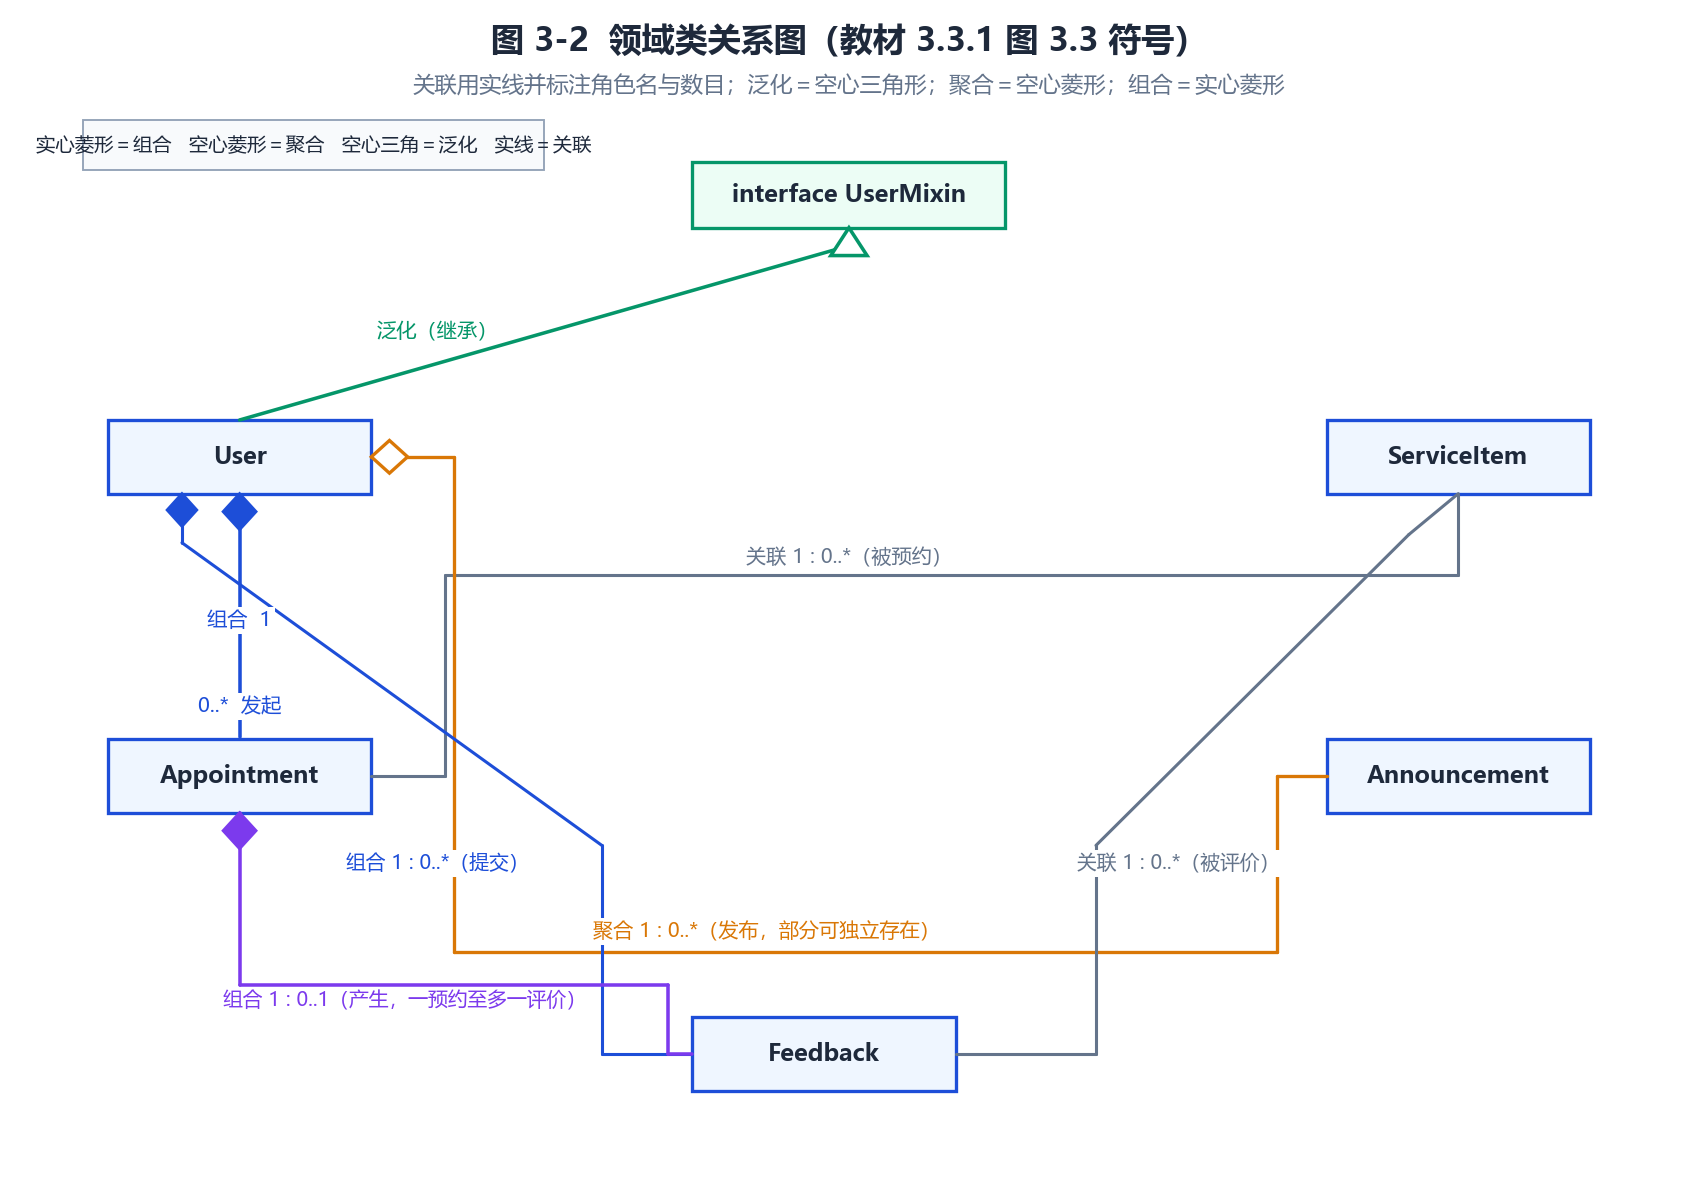
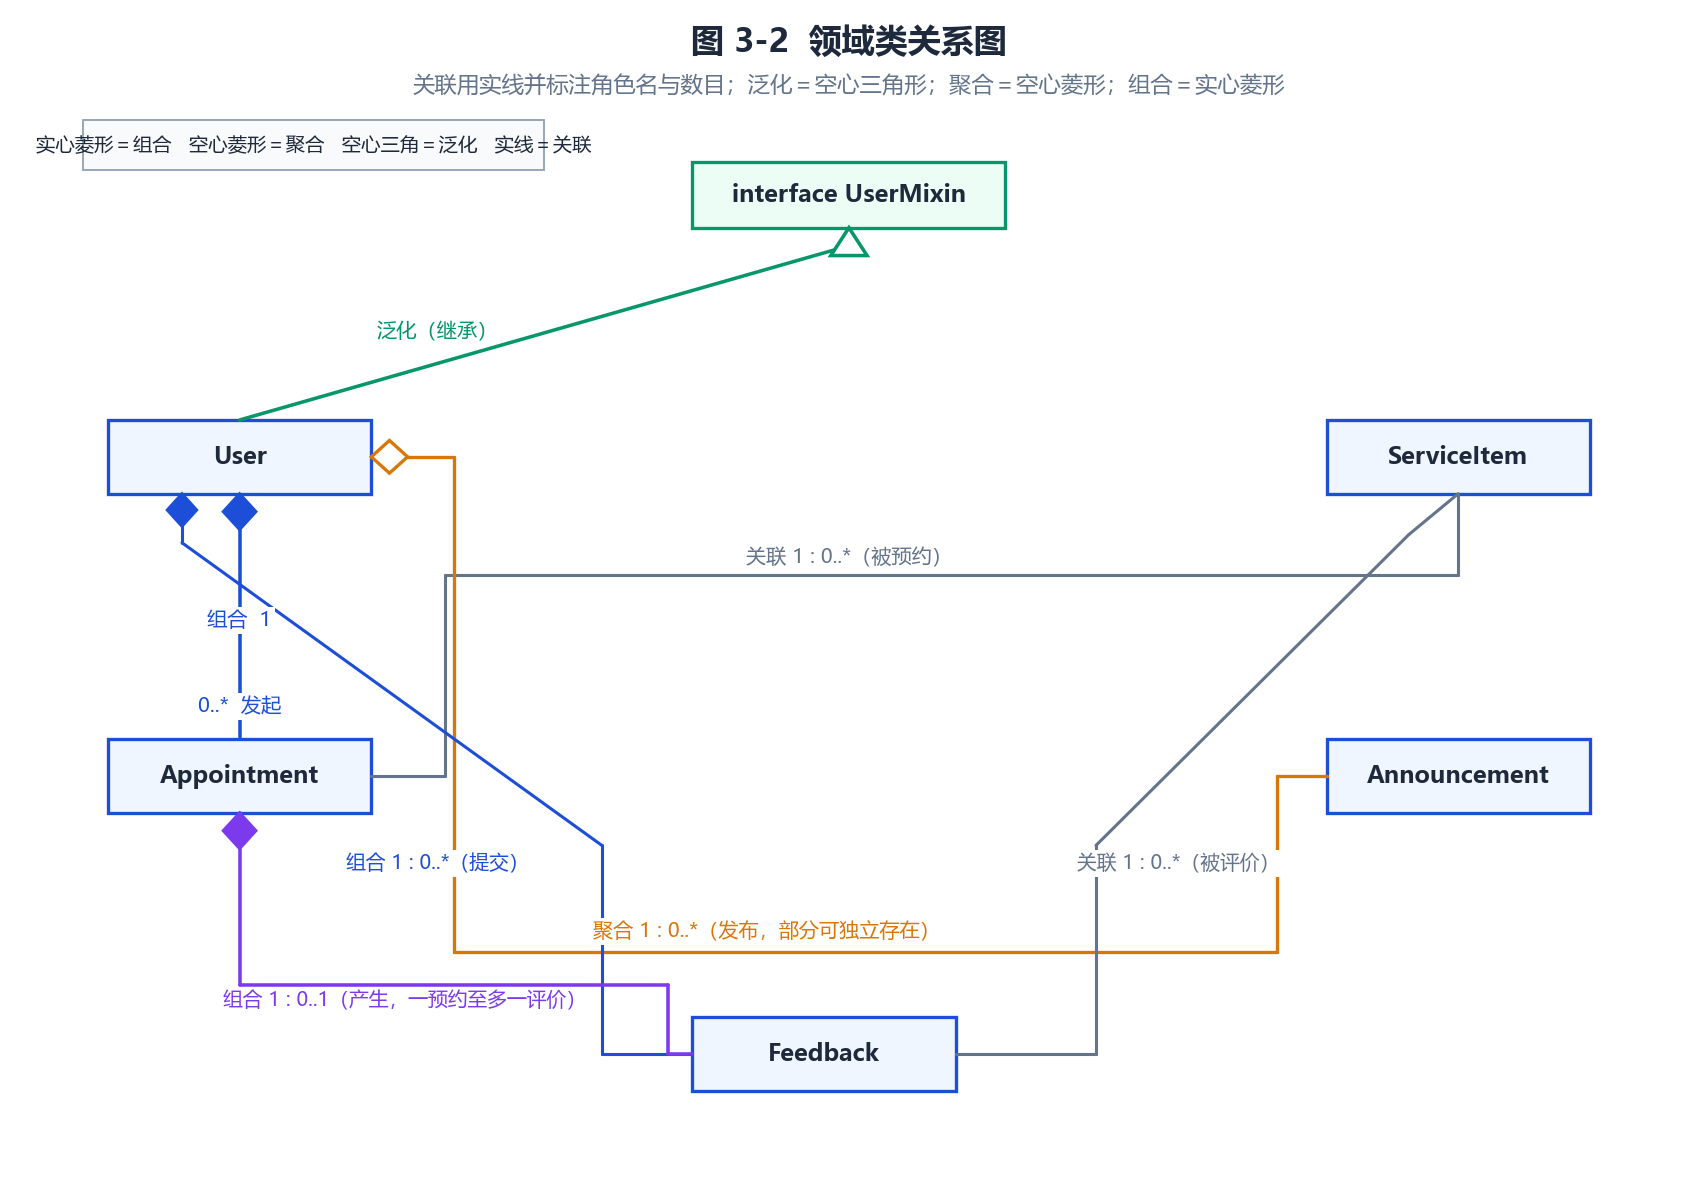
docs(diagrams): 图面与图注去掉教材章节/页码标注
- 用户要求图中不标注教材哪一页哪一章；PNG 标题/副标题/图内说明与 Word 图注统一清理
- 图注只保留「图 X-Y + 图名」；报告正文/小节标题/表格里的教材依据保留，作为与课本一致的论证
- 重绘 10 张 PNG 并重新生成 10 份 Word 报告（Word 内嵌图片副本，需两步重跑）
- 二进制精确替换 30 处，脚本语法/图面视觉/图注文本均已校验；docs/11 补第 23 条提交记录
- 全量验证不变：382 passed、94.7%/85.7%、静态 0 问题、插装 100%、变异 100%、真实库未动

Changed region(s): [[0.2811, 0.0, 0.6871, 0.0622]]

diff --git a/scripts/draw_diagrams.py b/scripts/draw_diagrams.py
@@ -2,7 +2,7 @@
 """按《基于案例的软件构造教程》与《软件质量保证与测试（第2版）》的符号规范，
 生成实验报告所需的 8 张设计图（PNG）。
 
-课本依据：
+设计依据（图面不标注，教材依据见报告正文）：
   - 2.3   模块的内聚性与耦合性            -> 模块结构图
   - 3.3.1 面向对象的设计符号（UML 类图）  -> 类图 / 类关系图
   - 5.1/5.3 用户交互与页面组织            -> 页面结构设计图
@@ -141,7 +141,7 @@ def legend(ax, x, y, items):
 def draw_module_structure():
     W, H = 20, 13
     fig, ax = canvas(W, H, "图 2-1  便民服务平台模块结构图",
-                     "教材 2.3「模块化设计理论初步」：按高内聚、低耦合分解，箭头表示调用/依赖方向")
+                     "按高内聚、低耦合分解；箭头表示调用/依赖方向")
     # 分层背景带
     bands = [(10.2, 2.0, "表现层（蓝图 + 表单 + 模板）", C["blue_f"], C["blue_e"]),
              (6.3, 3.2, "业务层（纯函数规则 / 应用服务）", C["green_f"], C["green_e"]),
@@ -195,7 +195,7 @@ def draw_module_structure():
 
     # 右侧耦合分析
     box(ax, 15.8, 3.0, 3.9, 8.9, "", fc=C["gray_f"], ec=C["gray_e"], lw=1.0)
-    txt(ax, 17.75, 11.45, "耦合类型判定（教材 2.3.3）", fs=9.6, bold=True, color=C["ink"])
+    txt(ax, 17.75, 11.45, "耦合类型判定", fs=9.6, bold=True, color=C["ink"])
     notes = [
         ("表现层 → 业务层", "数据耦合：仅传参数与返回值", C["green_e"]),
         ("业务层 → 数据层", "数据耦合：经 Repository 接口", C["purple_e"]),
@@ -214,7 +214,7 @@ def draw_module_structure():
 # ================================================================ 图 2 UML 类图
 def draw_class_diagram():
     W, H = 20, 13.5
-    fig, ax = canvas(W, H, "图 3-1  领域类的 UML 类图（教材 3.3.1 图 3.2 符号）",
+    fig, ax = canvas(W, H, "图 3-1  领域类的 UML 类图",
                      "三层矩形：类名 / 属性 / 操作；可见性 + 公用、- 私有、# 保护；接口加 interface 前缀")
     classes = [
         (0.8, 9.5, 5.6, 3.1, "User",
@@ -254,7 +254,7 @@ def draw_class_diagram():
     # 图例
     box(ax, 0.8, 0.15, 18.4, 0.62, "", fc=C["gray_f"], ec=C["gray_e"], lw=0.8)
     txt(ax, 10.0, 0.46,
-        "符号约定（教材 3.3.1）：+ 公用   - 私有   # 保护    属性/操作用签名表示    具体类正常书写、抽象类加 abstract 或斜体",
+        "符号约定：+ 公用   - 私有   # 保护    属性/操作用签名表示    具体类正常书写、抽象类加 abstract 或斜体",
         fs=8.8, color=C["ink"])
     save(fig, "02_class_diagram.png")
 
@@ -262,7 +262,7 @@ def draw_class_diagram():
 # ================================================================ 图 3 类关系图
 def draw_class_relations():
     W, H = 20, 13
-    fig, ax = canvas(W, H, "图 3-2  领域类关系图（教材 3.3.1 图 3.3 符号）",
+    fig, ax = canvas(W, H, "图 3-2  领域类关系图",
                      "关联用实线并标注角色名与数目；泛化＝空心三角形；聚合＝空心菱形；组合＝实心菱形")
     nodes = {
         "UserMixin": (8.1, 11.45, 3.8, 0.8),
@@ -357,7 +357,7 @@ def draw_class_relations():
 def draw_er_diagram():
     W, H = 20, 13.5
     fig, ax = canvas(W, H, "图 3-4  数据库概念结构设计 E-R 图",
-                     "教材 8.3：实体型用矩形、属性用椭圆、联系用菱形；无向边旁标注 1:1 / 1:n / m:n")
+                     "实体型用矩形、属性用椭圆、联系用菱形；无向边旁标注 1:1 / 1:n / m:n")
     # 实体（矩形）
     ents = {
         "users": (1.0, 10.3, 2.6, 0.85, "用户"),
@@ -428,7 +428,7 @@ def draw_er_diagram():
 # ================================================================ 图 5 关系图 / 关系模式
 def draw_relation_schema():
     W, H = 20, 13.5
-    fig, ax = canvas(W, H, "图 3-5  逻辑结构设计：关系模式与关系图（教材 8.1.2、图 8.1）",
+    fig, ax = canvas(W, H, "图 3-5  逻辑结构设计：关系模式与关系图",
                      "矩形＝关系，矩形内列属性，主属性加下划线；箭头＝外码 → 被参照关系的主码")
     rels = {
         "users": (1.0, 9.4, 4.4, 2.35, "users", ["id", "username", "password_hash", "email", "role"]),
@@ -497,8 +497,8 @@ def draw_relation_schema():
 # ================================================================ 图 6 数据库设计 6 阶段
 def draw_db_process():
     W, H = 20, 9
-    fig, ax = canvas(W, H, "图 3-3  数据库设计的六个阶段（教材 8.3 图 8.9）",
-                     "本项目的数据库构造严格按课本的开发过程推进，每阶段均有对应产物")
+    fig, ax = canvas(W, H, "图 3-3  数据库设计的六个阶段",
+                     "数据库构造按六阶段推进，每阶段均有对应产物")
     stages = [
         ("① 需求分析", "明确用户组成与数据需求\n六大模块的数据字典", C["blue_f"], C["blue_e"]),
         ("② 概念结构设计", "抽象为信息结构\n输出 E-R 图（图 3-4）", C["amber_f"], C["amber_e"]),
@@ -517,11 +517,11 @@ def draw_db_process():
     # 反馈回路（课本：评价设计、性能预测，未达标则返回修改）
     polyline(ax, [(19.0, 3.2), (19.0, 1.55), (0.6, 1.55), (0.6, 3.2)],
              color=C["muted"], lw=1.0, ls="--", arrow=True)
-    txt(ax, 10.0, 1.3, "未达到设计要求则回溯调整（教材 8.3：评价设计、性能预测 → 返回修改物理/逻辑结构）",
+    txt(ax, 10.0, 1.3, "未达到设计要求则回溯调整（评价设计、性能预测 → 返回修改物理/逻辑结构）",
         fs=8.5, color=C["muted"])
     box(ax, 0.6, 6.0, 18.8, 1.15, "", fc=C["gray_f"], ec=C["gray_e"], lw=0.8)
     txt(ax, 10.0, 6.58,
-        "E-R 图 → 关系模式转换三规则（教材 8.3）：1:1 可独立或合并；1:n 可独立或并入 n 端；m:n 必须转为独立关系模式",
+        "E-R 图 → 关系模式转换三规则：1:1 可独立或合并；1:n 可独立或并入 n 端；m:n 必须转为独立关系模式",
         fs=9, color=C["ink"], bold=True)
     save(fig, "06_db_design_process.png")
 
@@ -529,7 +529,7 @@ def draw_db_process():
 # ================================================================ 图 7 页面结构设计图
 def draw_page_structure():
     W, H = 20, 13.5
-    fig, ax = canvas(W, H, "图 4-1  页面结构设计图（教材 5.1 程序功能的组织与呈现、5.3 交互设计基本过程）",
+    fig, ax = canvas(W, H, "图 4-1  页面结构设计图",
                      "左侧：Jinja2 模板继承层级；右侧：按角色划分的页面跳转逻辑（写操作采用 POST-Redirect-GET）")
     # 左：模板继承
     box(ax, 0.6, 11.6, 8.6, 0.9, "base.html（父模板：导航 + flash 反馈区 + 页脚）",
@@ -574,7 +574,7 @@ def draw_page_structure():
     txt(ax, 15.0, 8.1, "角色切换", fs=8, ha="left", color=C["muted"], bbox=True)
     # PRG 说明
     box(ax, 10.0, 3.4, 9.4, 1.5, "", fc=C["purple_f"], ec=C["purple_e"], lw=1.0)
-    txt(ax, 10.35, 4.55, "写操作反馈机制（教材 5.2.5 交互设计原则）", fs=9.2,
+    txt(ax, 10.35, 4.55, "写操作反馈机制（可反馈性与容错性）", fs=9.2,
         bold=True, color=C["purple_e"], ha="left")
     txt(ax, 10.35, 4.05, "POST 成功 → 302 重定向 → GET 结果页（PRG），避免刷新重复提交",
         fs=8.3, ha="left", color=C["ink"])
@@ -586,7 +586,7 @@ def draw_page_structure():
 # ================================================================ 图 8 程序控制流图
 def draw_control_flow():
     W, H = 20, 12
-    fig, ax = canvas(W, H, "图 2-1  被测单元 cancel_appointment 的程序控制流图（测试教材 11.3）",
+    fig, ax = canvas(W, H, "图 2-1  被测单元 cancel_appointment 的程序控制流图",
                      "N=9 个结点，E=11 条边，判定结点 3 个；V(G)=E−N+2=11−9+2=4，V(G)=P+1=3+1=4，区域数=4")
     # 结点坐标
     pos = {
@@ -648,7 +648,7 @@ def draw_control_flow():
 # ================================================================ 图 9 因果图
 def draw_cause_effect_graph():
     W, H = 20, 13
-    fig, ax = canvas(W, H, "图 1-1  在线预约提交的因果图（测试教材 10.3）",
+    fig, ax = canvas(W, H, "图 1-1  在线预约提交的因果图",
                      "左为原因 C1~C8，右为结果 E1~E7；∧ 与、¬ 非、∨ 或；底部标注 R / M / E 约束")
     causes = ["C1 服务已上架", "C2 已选预约日期", "C3 日期在 30 天窗口内",
               "C4 时段合法", "C5 姓名≥2 字", "C6 手机号合法",
@@ -690,7 +690,7 @@ def draw_cause_effect_graph():
 
     box(ax, 0.7, 0.15, 18.6, 1.35, "", fc=C["gray_f"], ec=C["gray_e"], lw=0.8)
     txt(ax, 10.0, 1.1,
-        "约束（教材 10.3.1）：R 要求——C3 以 C2 为前提；M 屏蔽——表单字段错误时不再报告业务规则；E 互斥——E1 与各失败结果不能同时成立",
+        "约束：R 要求——C3 以 C2 为前提；M 屏蔽——表单字段错误时不再报告业务规则；E 互斥——E1 与各失败结果不能同时成立",
         fs=8.2, color=C["ink"])
     txt(ax, 10.0, 0.58,
         "因果图 → 判定表：8 个原因共 2^8=256 种组合，经约束剪枝保留 12 列，保证每个原因的真/假与各结果至少出现一次",
@@ -701,7 +701,7 @@ def draw_cause_effect_graph():
 # ================================================================ 图 10 状态迁移图
 def draw_state_transition():
     W, H = 20, 10
-    fig, ax = canvas(W, H, "图 1-2  预约状态迁移图（测试教材 10.4 功能图法）",
+    fig, ax = canvas(W, H, "图 1-2  预约状态迁移图",
                      "功能图 = 状态迁移图 + 状态内局部判定表；虚线箭头为被状态机拒绝的非法迁移")
     states = {
         "pending": (1.0, 5.0, 3.5, 1.15, "待确认 pending"),
@@ -741,7 +741,7 @@ def draw_state_transition():
 
     # 状态内局部判定
     box(ax, 0.7, 0.2, 18.6, 1.5, "", fc=C["gray_f"], ec=C["gray_e"], lw=0.8)
-    txt(ax, 10.0, 1.32, "状态内局部判定表（教材 10.4）：每个状态对「取消 / 推进 / 评价」三个事件分别给出允许或拒绝的判定",
+    txt(ax, 10.0, 1.32, "状态内局部判定表：每个状态对「取消 / 推进 / 评价」三个事件分别给出允许或拒绝的判定",
         fs=8.3, color=C["ink"])
     txt(ax, 10.0, 0.82,
         "pending：可取消、可受理、不可评价  |  confirmed：可取消、可办结、不可评价  |  completed：不可取消、不可迁移、可评价  |  cancelled：全部拒绝",
@@ -750,7 +750,7 @@ def draw_state_transition():
 
 
 def main():
-    print("按教材符号生成设计图：")
+    print("生成实验报告设计图（图面不标注教材章节）：")
     draw_module_structure()
     draw_class_diagram()
     draw_class_relations()

diff --git a/scripts/generate_experiment_reports.py b/scripts/generate_experiment_reports.py
@@ -234,7 +234,7 @@ CONSTRUCT.append((
               ["TDD 记录", "红灯 2 errors → 绿灯 33 passed in 0.79s"],
               ["Git 提交", "86fccb9  feat(appointment): 以TDD方式构造预约管理核心模块与密码策略，含33条单元测试"]]),
         ("img", "01_module_structure.png",
-         "图 2-1  便民服务平台模块结构图（教材 2.3：高内聚、低耦合；箭头为调用/依赖方向）"),
+         "图 2-1  便民服务平台模块结构图"),
         ("p", "教材 2.3 把模块独立性拆成「内聚性」与「耦合性」两个对立又相关的指标，"
               "并要求概要设计力求增强内聚、降低耦合。图 2-1 按此把系统分为表现层、业务层、数据层与支撑层："
               "表现层 6 个蓝图只通过参数与返回值调用业务层（**数据耦合**）；各层共享 utils.constants 的"
@@ -295,9 +295,9 @@ CONSTRUCT.append((
               "泛化是一端带空心三角形的连线，绘制时从子类指向父类；聚合的整体端用空心菱形，"
               "组合的整体端用实心菱形。图 3-1、图 3-2 严格按这些符号绘制。"),
         ("img", "02_class_diagram.png",
-         "图 3-1  五个领域类的 UML 类图（教材 3.3.1 图 3.2 符号）"),
+         "图 3-1  五个领域类的 UML 类图"),
         ("img", "03_class_relations.png",
-         "图 3-2  领域类关系图（教材 3.3.1 图 3.3 符号）"),
+         "图 3-2  领域类关系图"),
         ("p", "类关系判定（对应实验指导要求的「关联、聚合、组合、继承」四类）："
               "**组合**：User—Appointment、User—Feedback、Appointment—Feedback，部分不能脱离整体存在，"
               "删除用户时其预约与评价按 ORM 级联配置一并删除；"
@@ -312,13 +312,13 @@ CONSTRUCT.append((
               "数据库实施、运行维护六个阶段（图 8.9），并强调概念结构设计是「整个数据库设计的关键」，"
               "其产物是 E-R 模型。本项目的数据库构造按这六阶段推进，各阶段产物见图 3-3。"),
         ("img", "06_db_design_process.png",
-         "图 3-3  数据库设计的六个阶段（教材 8.3 图 8.9）"),
+         "图 3-3  数据库设计的六个阶段"),
         ("p", "E-R 图的符号严格遵循教材 8.3：「E」表示实体型，在 E-R 图中用矩形表示，矩形框内写明实体名；"
               "属性用椭圆表示，并用无向边与相应实体连接；「R」表示联系，用菱形表示，"
               "并用无向边分别与有关实体型连接，同时在无向边旁标记联系类型（1:1、1:n、m:n）。"
               "本系统识别出 5 个实体型与 6 个联系（发起、被预约、发布、提交、被评价、产生），见图 3-4。"),
         ("img", "04_er_diagram.png",
-         "图 3-4  数据库概念结构设计 E-R 图（教材 8.3 图 8.10 / 图 8.11 符号）"),
+         "图 3-4  数据库概念结构设计 E-R 图"),
         ("h", "4.3 逻辑结构设计：E-R 图向关系模式转换（教材 8.1.2、8.3）", 2),
         ("p", "教材 8.3 给出 E-R 图向关系模型转换的三条规则："
               "（1）1:1 联系可转为独立关系模式，也可与任意一端对应的关系模式合并；"
@@ -337,7 +337,7 @@ CONSTRUCT.append((
               "每个关系用一个矩形表示，关系的名字显示在矩形上方，矩形内列出各个属性，"
               "主属性用下画线标出，外码之间用从参照关系的外码属性到被参照关系主属性的箭头表示。"),
         ("img", "05_relation_schema.png",
-         "图 3-5  关系模式与关系图（教材 8.1.2、图 8.1 画法）"),
+         "图 3-5  关系模式与关系图"),
         ("p", "三类完整性约束在 ORM 与 DDL 中逐条落地："
               "**实体完整性**——5 张表均有非空且唯一的单列主码 id；"
               "**参照完整性**——所有外码建立外键约束并指向实际存在的被参照主码；"
@@ -431,7 +431,7 @@ CONSTRUCT.append((
               ["集成测试", "20 passed（注册6/登录与会话3/访问控制3/预约表单3/取消1/页面4…）"],
               ["Git 提交", "e5d1d4f  feat(web): 页面模板、表单校验、会话与权限管理，含20条集成测试"]]),
         ("img", "07_page_structure.png",
-         "图 4-1  页面结构设计图（教材 5.1 程序功能的组织与呈现、5.3 交互设计基本过程）"),
+         "图 4-1  页面结构设计图"),
         ("p", "教材 5.1 讨论「多个功能的组织与呈现」，5.3 给出交互设计的基本过程与快速原型法。"
               "图 4-1 左侧是 Jinja2 模板继承树：所有页面继承 base.html，子模板只覆盖 content 块，"
               "因而导航、反馈区与页脚在全站保持一致（交互设计的一致性原则）；"
@@ -557,9 +557,9 @@ TESTS.append((
               "再转成判定表并逐列设计用例。教材 10.3、10.4 的两种方法都以「图」为核心建模工具，"
               "所绘制的因果图与状态迁移图分别见图 1-1、图 1-2。"),
         ("img", "09_cause_effect_graph.png",
-         "图 1-1  在线预约提交的因果图（测试教材 10.3：原因、结果、逻辑门与 R/M/E 约束）"),
+         "图 1-1  在线预约提交的因果图"),
         ("img", "10_state_transition.png",
-         "图 1-2  预约状态迁移图（测试教材 10.4 功能图法：状态迁移图 + 状态内局部判定表）"),
+         "图 1-2  预约状态迁移图"),
         ("p", "因果图用 ∧（与）、¬（非）、∨（或）三种逻辑门连接原因与结果，"
               "并以 R（要求）、M（屏蔽）、E（互斥）约束描述输入之间的相互制约；"
               "功能图法则把预约状态机建模为「状态迁移图 + 状态内局部判定表」——"
@@ -612,7 +612,7 @@ TESTS.append((
               "据此导出 4 条独立路径（记录不存在 / 非本人 / 状态不可取消 / 取消成功）并逐条设计用例。"
               "按实验指导「绘制被测单元的程序流程图」的要求，依教材 11.3 的控制流图画法绘制如图 2-1。"),
         ("img", "08_control_flow.png",
-         "图 2-1  被测单元 cancel_appointment 的程序控制流图（测试教材 11.3）"),
+         "图 2-1  被测单元 cancel_appointment 的程序控制流图"),
         ("h", "四、测试用例与执行结果", 1),
         ("t", ["覆盖类型", "用例要点", "结果"],
              [["语句覆盖", "U1~U5 每个可执行语句至少执行一次", "通过"],

diff --git a/docs/11-交付清单.md b/docs/11-交付清单.md
@@ -46,7 +46,8 @@
 | 19 | `3561aae` | fix(booking): 拦截已过时段与管理员预约，补齐时间/角色边界 | 第二轮 β 测试缺陷修复 |
 | 20 | `c355f71` | fix(role): 角色化导航、消费者页面守卫、按时段自动办结、管理员不可评价，补 48 条回归并同步 10 份报告（DEF-010/011/012） | 第三轮 β 测试缺陷修复 |
 | 21 | `dd90afe` | feat(sort): 「按名称」改为拼音排序（name_pinyin 冗余列 + 写入自动维护），补 19 条回归，全量 382 条 | 可用性改进（排序直觉化） |
-| 22 | 见最新提交 | docs(textbook): 按教材符号重绘 10 张设计图并嵌入实验报告，补课本 8.3 数据库设计过程 | 教材符合性核对 |
+| 22 | `1a8b4aa` | docs(textbook): 按教材符号重绘 10 张设计图并嵌入实验报告，补课本 8.3 数据库设计过程 | 教材符合性核对 |
+| 23 | 见最新提交 | docs(diagrams): 图面与图注去掉教材章节/页码标注，重绘 10 张图并重新生成 10 份报告 | 图面规范整理 |
 
 ## 3. 功能验收对照表
 
